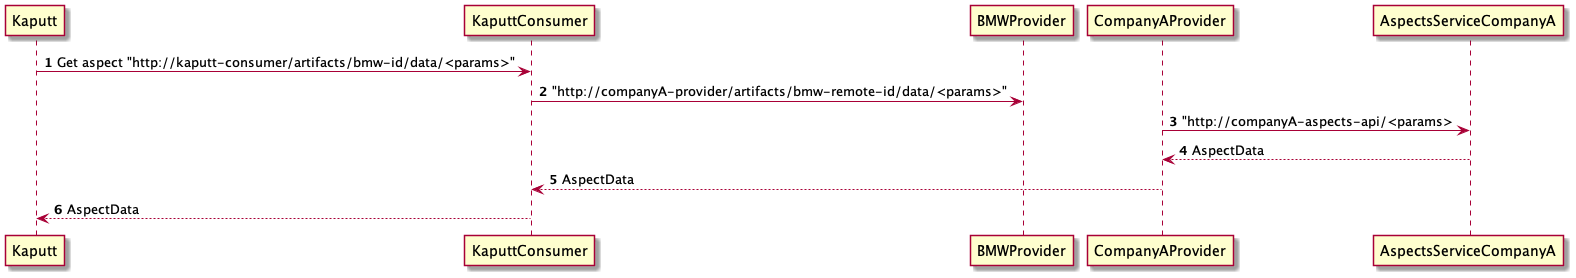
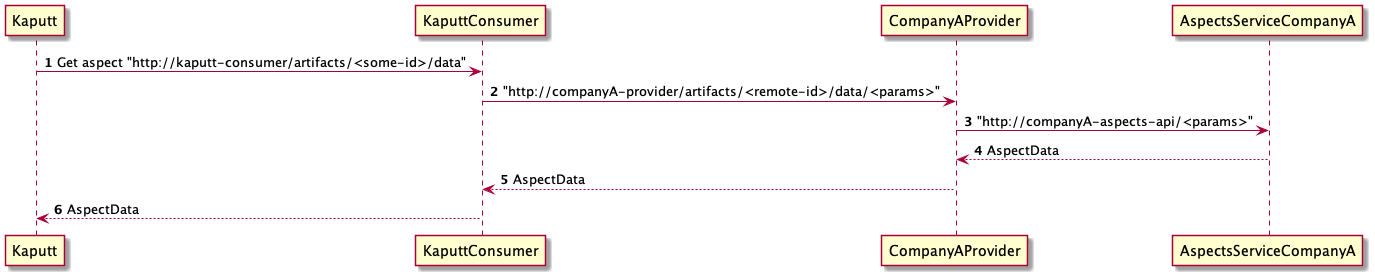
Improved explanations.

diff --git a/documentation/architecture/speedboat-aspects-connectors-data-flow.md b/documentation/architecture/speedboat-aspects-connectors-data-flow.md
@@ -41,7 +41,7 @@ But, PRS is the service that provides artifact URLs to Kaputt.
 This is why we propose the following temporary solution:
 PRS will be aware of the existing artifacts in the Kaputt consumer. It will provide the correct prefix URL depending on the oneIDManufacturer.
 
-## Sequence diagram
+### Sequence diagram
 
 The following sequence diagram explains how the Kaputt service can obtain the correct URL to query aspects.
 CompanyA could be a company like BMW or ZF that provides aspects.
@@ -50,6 +50,8 @@ CompanyA could be a company like BMW or ZF that provides aspects.
 
 It is important to note that PRS will provide the correct URL depending on the oneIDManufacturer.
 Kaputt will have one artifact registered per manufacturer. PRS will know these artifacts and provide the correct one to Kaputt.
+Kaputt will obtain a URL that looks like this "http://kaputt-consumer/artifacts/<some-id>/data/<params>"
+It will need to use this URL to request the aspects.
 
 The following sequence diagram explains how the Kaputt service can obtain the artifact data after getting the artifact URL from PRS.
 
